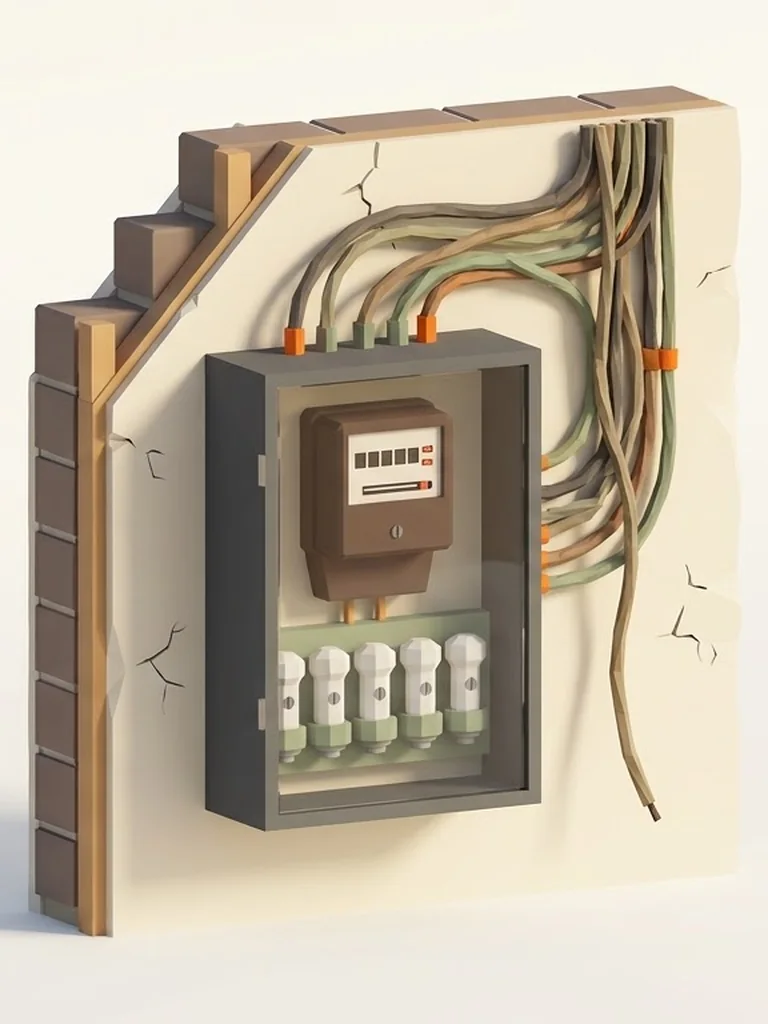
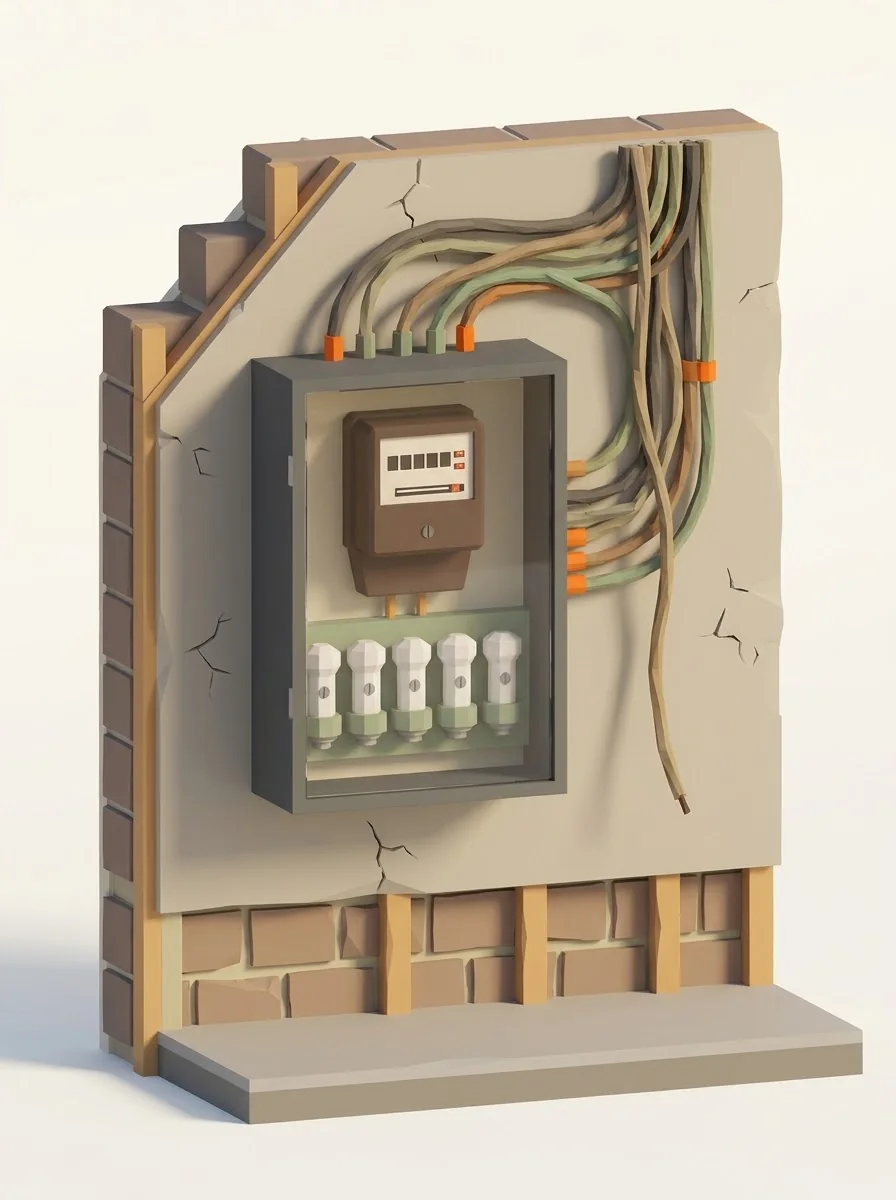
stromkreis: логотип наверх, шапка на узких экранах, карточки услуг, PLZ, фото щитков и werkstatt, PROMPTS_v3, README
Claude-Session: https://claude.ai/code/session_013f8tgZiyNzu6wUXffoxqZU

diff --git a/stromkreis/README.md b/stromkreis/README.md
@@ -1,35 +1,35 @@
 # Demo: Elektro Brakhage («Stromkreis»)
 
-Статус: **сайт собран (Astro) с фото из Gemini, проверен headless на 320–1280 px; ждёт ревью Степана на телефоне.**
+Статус: **главная пересобрана вокруг 3D-дома (ночь → день); ждёт ревью Степана на телефоне.**
 Живая версия после push: https://moshrell.github.io/demo/stromkreis/ · Разведка: `RECON.txt` · ТЗ владельца: `TZ.txt` · Промпты: `PROMPTS.txt`.
 Фирма вымышленная: Elektro Brakhage, Gehrden (имя «Hellwig» из брифа заменено: в Nordhorn есть реальная «Hellwig Elektrotechnik»). Адрес, телефоны (Drama Numbers 030 23125), HWK-номер и USt-ID — выдуманы.
 
 ## Механика
-Главная = хаб без длинного скролла: тёмный Sicherungskasten (щиток) → Hauptschalter (главный рубильник) → разрез дома ночью → автоматы внизу включают комнаты → карточка услуги → тап по светлой комнате = наезд камеры (фиксированная точка) → страница услуги. «Alles an», «Licht aus», «Ohne Licht direkt zu den Leistungen» и Schnellzugriff (быстрый список с ценами) всегда доступны. Нижняя панель (Anrufen / Notdienst / Anfrage) на всех страницах. Статус «открыто/закрыто» по Europe/Berlin.
-Состояние дома, ответы инструментов и PLZ — в sessionStorage. Нет WebGL вообще: фото + HTML.
+Главная = один длинный скролл. Ночь: sticky-hero с живым 3D-домом в разрезе (Three.js), скролл зажигает 9 комнат в «случайном» порядке (противоположные подряд не идут), тап по горящей комнате = камера летит к якорной точке, карточка с текстом и ссылкой на услугу, «Zurück» (назад). Дальше «рассвет» и светлый день: Leistungen (карусель на телефоне, сетка ≥48rem) → Wir (мы, команда, werkstatt) → Vorher/Nachher (до/после, два слайдера) → Preise (цены во вкладках) → PLZ-проверка + Ablauf (порядок работы) → Azubi → FAQ. Шапка, нижняя панель, меню и футер всегда тёмные. Меню «Stromkreisverzeichnis» (перечень цепей, как листок в щитке): F1–F7, цены, ссылки, счётчик посетителей.
+Голос сайта «Wir» (мы), фирма: Meister Tobias Brakhage + 4 Monteure + Azubi. Notdienst (аварийная служба) без слайдера, отдельная страница.
+Состояние инструментов и PLZ в sessionStorage. Без WebGL/JS: hero сворачивается до заголовка и ссылки «Direkt zu den Leistungen», вся остальная страница работает.
 
-Инструменты: Wallbox-Check (`/wallbox/`, 5 вопросов, бегущая сумма) · E-Check-Rechner (`/e-check/`, netto + MwSt. + brutto) · «Ist meine Elektrik alt?» (`/altbau/`) · PLZ-проверка района с ценой Anfahrt (выезда). Все ведут в `AnfrageForm.astro` и переносят сводку и сумму.
+Инструменты: Wallbox-Check (`/wallbox/`) · E-Check-Rechner (`/e-check/`) · «Ist meine Elektrik alt?» (`/altbau/`) · PLZ-проверка. Все ведут в `AnfrageForm.astro` и переносят сводку и сумму.
 
-## 3D-срез (новое направление главной, на ревью)
-`/slice/` (не в меню): живая 3D-сцена вместо щитка. Дом в разрезе ночью, скролл зажигает комнаты по очереди, тап по комнате = камера летит к якорной точке (Küche: плита, Garage: Wallbox, Bad: ванна), «Zurück» возвращает. Код: `src/scripts/haus3d.ts` + `src/pages/slice.astro`. Модели: Kenney Furniture Kit и Car Kit (CC0, лицензии в `public/3d/`), оболочка дома собрана из боксов. Нет внешних запросов. Искры под пальцем (только тач, выкл. при reduced-motion), без WebGL показывается сообщение.
-Не решено: интерьеры блочные (Kenney), композиция кадров в комнатах средняя; сцена не оптимизирована (≈260 draw calls, 11k треугольников, JS ≈600 КБ без сжатия): объединить статичную геометрию; реальный fps на телефоне не измерен (проверка только в headless с программным рендером); главная `/` пока старая (щиток), решение после ревью срезa.
+## 3D-hero
+`src/components/Hero3D.astro` + `src/scripts/haus3d.ts` (API в `window.__hero`: `setProgress, flyTo, light, onPick, litIds, skip…`). Без реальных источников света и теней (дёшево для телефонов): цвет/emissive материалов по уровню «lit», светящиеся плоскости, блоб-тени. Модели: Kenney Furniture Kit и Car Kit (CC0, лицензии в `public/3d/`), оболочка дома из боксов. Искры под пальцем (только тач). Высота hero 420svh резервируется сразу (иначе восстановление скролла при перезагрузке попадало на «Wir»); при ошибке WebGL ставится `data-fail`.
 
 ## Файлы
-- Данные: `src/data/*.json` (`site`, `leistungen`, `haus`, `plz`, `wallbox`, `echeck`, `altbau`). Цены только там.
-- Токены: `src/styles/tokens.css` (hallmark: кастом-тема, графит + янтарь 2700K + кремовые полоски; Sofia Sans Condensed / Sofia Sans / Martian Mono, локально).
-- Хаб: `src/components/Hub.astro`. Форма: `AnfrageForm.astro` (по стандарту `_template/OrderForm`). Фото: `Foto.astro` + `src/scripts/img.ts` (читает `public/img/`).
+- Данные: `src/data/*.json` (`site`, `leistungen`, `rooms`, `plz`, `wallbox`, `echeck`, `altbau`). Цены только там.
+- Токены: `src/styles/tokens.css` (день по умолчанию, `.night/.head/.bar/.foot/.vz` тёмные; Sofia Sans Condensed / Sofia Sans / Martian Mono, локально).
+- Блоки главной: `Hero3D`, `Leistungen`, `Compare`, `Preise`, `PlzCheck`. Форма: `AnfrageForm.astro` (по стандарту `_template/OrderForm`). Фото: `Foto.astro` + `src/scripts/img.ts`.
 
 ## Фото
-16 кадров из `PROMPTS.txt` подключены как WebP в `public/img/` (оригиналы jpg лежат только у Степана в `D:\Webdesign\stromkreis\public\img\`, в git не идут: `.gitignore`). Если файла нет, на его месте полосатая плашка «Foto folgt», дом рисуется схемой.
-Кадры `haus-dunkel` / `haus-hell` совпали пиксель в пиксель (сдвиг 0). Контуры комнат взяты из разницы двух кадров скриптом `tools/masken.py` (python3, Pillow, scipy; запуск: `python3 tools/masken.py public/img`, нужны jpg-оригиналы или переименовать вход), результат вручную перенесён в `src/data/haus.json` (`poly` = область света, `hit` = область тапа, `lamp` = точка лампы, `pin` = булавка Referenz). Рейки щитка в `haus.json → rails` (31,3 / 50,9 / 70,3 % высоты кадра, ширина рейки 26–74 %). Если кадры перегенерируются, пересчитать полигоны и рейки.
+Диорамы из `PROMPTS_v2.txt` в `public/img/` как WebP (jpg-оригиналы только у Степана, в git не идут). Нет файла: полосатая плашка «Foto folgt».
+`zaehler-alt` = кадр 16:9 из Gemini, обрезан под 3:4 по щитку (лучше перегенерировать). `PROMPTS_v3.txt`: 6 кадров 3:4 для карточек Leistungen (сейчас 4:3, из-за этого в карточках пустота под текстом, пока не заменены). `alt-*.webp` в `AltbauCheck` — старые фото, стиль не совпадает с диорамами: нужен новый набор (1:1).
 
 ## Известные недочёты
-- Лампы «Keller» и «Garten» в `haus.json` заданы вручную (в подвале две лампы, в саду три столбика), остальные найдены по максимуму прироста яркости.
-- Не проверено глазами: вёрстка хаба на разных высотах телефона, плавность анимаций на реальном iPhone/Android. Глазами смотрел только исходные кадры Gemini (раскладка комнат и фото щитка), сайт целиком — нет. Наклон по гироскопу работает только там, где не нужно разрешение (Android); на iOS остаётся drag.
+- 3D: интерьеры блочные (Kenney), ≈270 draw calls, JS ≈600 КБ без сжатия (объединить статичную геометрию, грузить three лениво); реальный fps на телефоне не измерен (только headless с программным рендером).
+- Не проверена светлая тема на внутренних страницах (услуги, инструменты, формы, Notdienst, team, impressum) после смены темы.
 - Цены демонстрационные: ориентир по открытым данным (ADAC: Wallbox 500–3 000 € монтаж; прайсы DGUV V3 3–8,50 € за прибор + выезд). На живом клиенте заменить своими. Нулевая ставка MwSt. для PV (до 30 kWp) указана по публикации priwatt.de; относится ли к ней Zählerschrank, в тексте оставлено «клиентом уточняется».
 - Формы ничего не отправляют (демо). Фото в форме — только превью в браузере. В реальном проекте отправка идёт через PHP на All-Inkl (фото как вложение), Datenschutz подправить.
 - Телефон/e-mail/Handwerksrolle/USt-ID/Berufshaftpflicht в Impressum: вымышленные или `TODO vom Kunden`.
 
 ## Технически
 `npm run build` (astro build + ki-hinweis + htaccess/CSP с хэшами). Все ссылки через `import.meta.env.BASE_URL`. Без внешних запросов.
-Проверено (headless, без скриншотов): нет горизонтального скролла и обрезанного контента на 320/375/390/414/768/1280, нет ошибок консоли и битых запросов, нет двустрочных кликабельных текстов, все внутренние ссылки 200, reduced-motion и отключённый JS (дом сразу светится, ссылки работают), форма не теряет данные (Datenschutz в новой вкладке, перезагрузка), согласие не восстанавливается.
+Проверено до смены темы (headless): нет горизонтального скролла и обрезанного контента на 320/375/390/414/768/1280, нет ошибок консоли и битых запросов, нет двустрочных кликабельных текстов, все внутренние ссылки 200, reduced-motion и отключённый JS (дом сразу светится, ссылки работают), форма не теряет данные (Datenschutz в новой вкладке, перезагрузка), согласие не восстанавливается.
